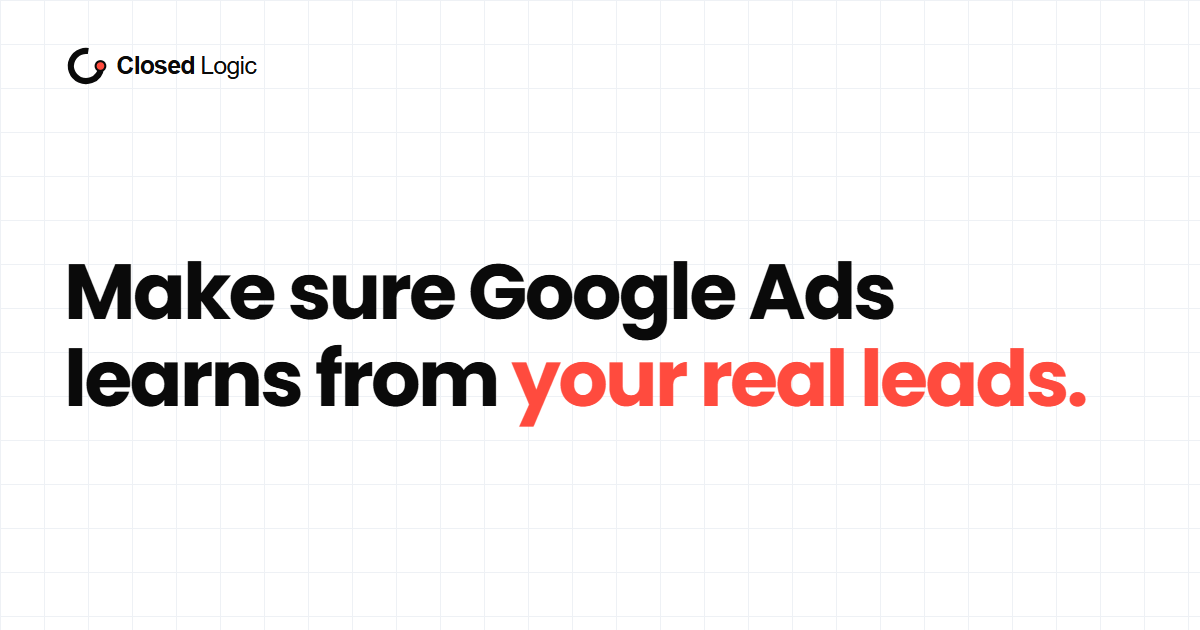
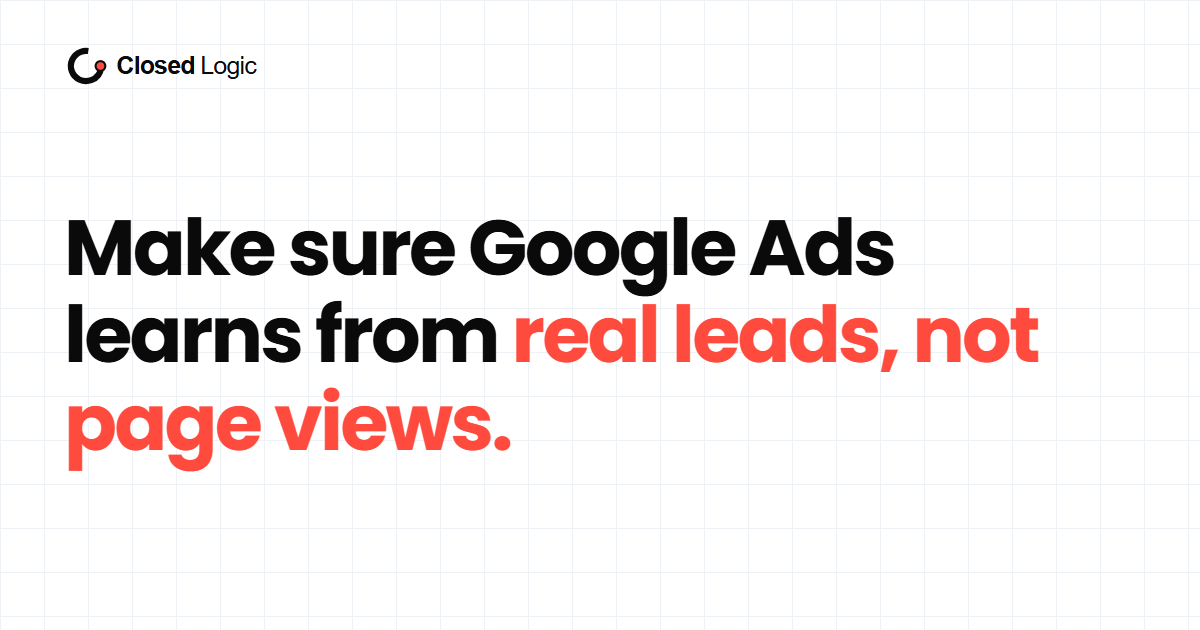
Guides box, new share images, cleanup of retired code
End-of-guide box links to /free-check and /signal-fix. New OG and X images (wordmark and "Make sure Google Ads learns from real leads, not page views."), alt text states exactly that. Removed the PE flag and gated code, the old contact form component, the Signal Watch and founding exports, and the PE booking route. US spelling fixes in the privacy policy, shorter terms and privacy meta descriptions, README and CHANGES updated.

Changed region(s): [[0.0308, 0.3317, 0.925, 0.754]]

diff --git a/app/offers.ts b/app/offers.ts
@@ -6,9 +6,7 @@ export const offers = {
   pilot: { name: "Ops Desk pilot", price: "$1,250" },
   ops: { name: "Ops Desk", price: "$2,500", per: "$2,500/month", hours: 10, noticeDays: 30 },
   audit: { name: "Pipeline Truth Audit", price: "$1,500", days: 10 },
-  fractional: { name: "Fractional Measurement Lead", price: "$5,000", per: "$5,000/month", hours: 25, foundingPer: "$4,000/month", foundingClients: 2 },
-  watch: { name: "Signal Watch", price: "$750", per: "$750/month", allowanceHours: 2 },
-  foundingFix: { clients: 5 },
+  fractional: { name: "Fractional Measurement Lead", price: "$5,000", per: "$5,000/month", hours: 25 },
 } as const;
 
 export const replyTime = "within 1 business day";
@@ -40,32 +38,3 @@ export const opsLine = `Up to ${offers.ops.hours} hours a month, one active requ
 export const auditGuarantee = "If the audit finds nothing that changes how Google Ads counts or bids, we refund the fee in full.";
 export const auditCredit = `If you continue to the ${offers.fractional.name} within 30 days of the audit report, the audit fee is credited against Fractional's first month. No credit applies to other offers.`;
 export const fractionalTerm = "Cancel in the first 30 days and pay only that month. Otherwise the 3-month term applies, then 30 days' notice.";
-
-// ---- Legacy exports: still used by pages not yet rewritten. Removed in the cleanup commit. ----
-export const legacy = {
-  watch: { name: "Signal Watch", price: "$750", per: "$750/month", allowanceHours: 2 },
-  fractionalFounding: { per: "$4,000/month", clients: 2 },
-  foundingFix: { clients: 5 },
-};
-export const fixScope = [
-  "Clean up which conversion actions are Primary",
-  "Fix the triggers",
-  "Set up form-submit and booking events",
-  "Capture click IDs and UTMs in HubSpot hidden fields",
-  "Choose the bidding stage the account's volume can support",
-  "Test and document",
-];
-export const fixDeliverables = "A before-and-after check you can rerun, and a change log with how to undo each change.";
-export const watchChecks = [
-  "Conversions arriving in Google Ads compared with HubSpot submissions",
-  "The share of paid contacts with a stored click ID",
-  "Changes to Primary conversion actions",
-  "Form embeds that stopped firing",
-];
-export const watchTerms = `Weekly checks, a short monthly note and ${legacy.watch.allowanceHours} hours a month of fixes. Unused hours don't roll over, and larger work is quoted. Month to month.`;
-export const foundingFixText = `The first ${legacy.foundingFix.clients} ${offers.fix.name} clients get their first month of ${legacy.watch.name} free, in exchange for a written case study.`;
-export const foundingFractionalText = `Founding rate: ${legacy.fractionalFounding.per} for the first ${legacy.fractionalFounding.clients} clients, for 3 months, with a case study required.`;
-export const foundingRule = `Founding offers don't combine with each other or with the audit credit. A client gets at most one free first month of ${legacy.watch.name}.`;
-const lowerFirst = (s: string) => s.charAt(0).toLowerCase() + s.slice(1);
-export const fixScopeLine = fixScope.map(lowerFirst).join("; ");
-export const watchLine = watchChecks.map(lowerFirst).join("; ");

diff --git a/app/components/guide-cta.tsx b/app/components/guide-cta.tsx
@@ -1,24 +1,16 @@
-import { AuditButton, BookButton, BookPeButton } from "./cta";
-import { SHOW_PE } from "../flags";
+import Link from "next/link";
 
-// cta: direct sends B2B SaaS readers to the audit and the fractional offer; cta: agency (the frontmatter value kept
-// from the old site) sends PE readers to the portfolio offer. Both book Cal.com directly, tagged with the guide slug.
-export default function GuideCta({ cta, campaign }: { cta: "direct" | "agency"; campaign: string }) {
-  // While SHOW_PE is false (app/flags.ts) every guide gets the B2B SaaS fit-call CTA (the 20min-fit event).
-  const pe = SHOW_PE && cta === "agency";
+// End-of-guide box: the free check first, then Signal Fix (the guide bodies are left as written).
+export default function GuideCta() {
   return (
     <aside aria-labelledby="guide-cta-title" className="bento mt-14">
-      <h2 id="guide-cta-title" className="text-title-m">
-        {pe ? "Want one measurement standard across your portfolio?" : "Want your setup checked?"}
-      </h2>
+      <h2 id="guide-cta-title" className="text-title-m">Want to know what your setup is sending?</h2>
       <p className="mt-3 max-w-[56ch] text-text-l text-body">
-        {pe
-          ? "We work alongside your CRM partner on measurement across every portfolio company, without migrating CRMs."
-          : "We find what your Google Ads and HubSpot setup is miscounting, fix it at a fixed price, and keep checking it. We sell no media and resell no software."}
+        We check what your site sends to Google Ads from outside, for free, with no logins. If we find something, Signal Fix is $750 for one defined fix.
       </p>
       <div className="mt-6 flex flex-col gap-3 sm:flex-row sm:flex-wrap">
-        {pe ? <BookPeButton campaign={campaign} className="w-full sm:w-auto" /> : <BookButton campaign={campaign} className="w-full sm:w-auto" />}
-        <AuditButton className="w-full sm:w-auto" />
+        <Link href="/free-check" className="btn w-full sm:w-auto">Get my free check</Link>
+        <Link href="/signal-fix" className="btn-outline w-full sm:w-auto">See Signal Fix</Link>
       </div>
     </aside>
   );

diff --git a/app/privacy/page.tsx b/app/privacy/page.tsx
@@ -8,7 +8,7 @@ import { pageMetadata } from "../seo";
 
 export const metadata = pageMetadata({
   title: "Privacy policy",
-  description: `What ${site.domain} collects, why, who sees it, how long we keep it, and how to use your rights. ${site.legalLine}.`,
+  description: `What ${site.domain} collects, why, who sees it, how long we keep it, and how to use your rights.`,
   path: "/privacy",
 });
 
@@ -54,7 +54,7 @@ export default function Privacy() {
           <strong>When you visit the site: session replays and heatmaps.</strong>{" "}
           Microsoft Clarity records how visitors use the site: clicks, scrolling and mouse movement, shown as session
           replays and heatmaps, with the page, referrer, device, browser and approximate location. It sets cookies to
-          recognise your browser across pages. What you type into form fields is always masked. On most pages it&apos;s loaded
+          recognize your browser across pages. What you type into form fields is always masked. On most pages it&apos;s loaded
           through Tag Manager and switched off until you press Accept. The exception is the personal video pages we send to
           individual prospects (addresses starting /v/), which aren&apos;t linked from the rest of the site. Clarity runs on
           those straight away, so we can see whether the video was watched. Clarity keeps recordings for up to 30 days.
@@ -206,7 +206,7 @@ export default function Privacy() {
           ask us to tell you what we hold about you and where we got it, or to delete it. If you ask us to delete it, we keep only the
           do-not-contact entry described above, so we don&apos;t contact you again.
         </p>
-        <p>We do not sell or share personal information for cross-context behavioural advertising as those terms are defined in California law.</p>
+        <p>We do not sell or share personal information for cross-context behavioral advertising as those terms are defined in California law.</p>
 
         <h2 className={h}>Security</h2>
         <p>

diff --git a/app/site.config.ts b/app/site.config.ts
@@ -1,7 +1,6 @@
 // Site facts and every open placeholder. scripts/check-placeholders.mjs fails the
 // production build while any double-brace token is left in app/.
 import booking from "./booking.json";
-import { SHOW_PE } from "./flags";
 
 export type CaseStudy = { title: string; body: string; attribution: string };
 
@@ -11,8 +10,6 @@ export const site = {
   // Nova's artwork (wordmark, icons, share images), whose text is outlined or baked in (see README, "Renaming").
   // Renamed from the old brand to Closed Logic (Matt, 9 Oct 2026). The old domain's 301 plan is in the dev report.
   brand: "Closed Logic",
-  // Single PE switch, set in app/flags.ts.
-  showPE: SHOW_PE,
   positioning: "Fix HubSpot and Google Ads Conversion Tracking",
   description:
     "We check what your site sends to Google Ads and HubSpot, fix what’s miscounted for $750, and run your HubSpot ops after. Free check, no access.",
@@ -32,13 +29,11 @@ export const site = {
   },
   linkedin: "https://www.linkedin.com/in/mattstrydom",
   // Booking links, all in app/booking.json (one place, also read by scripts/cf-postbuild.mjs). Site buttons link to
-  // Cal.com directly with UTM tags (app/booking.ts, Matt 2 Nov 2026); bookPath and bookPePath are the redirects
+  // Cal.com directly with UTM tags (app/booking.ts, Matt 2 Nov 2026); bookPath is the redirect
   // written to out/_redirects, kept for links shared outside the site. A booking.json entry with no event of its own
   // falls back to the direct link.
   bookPath: "/book",
-  bookPePath: "/book-pe",
   directBookingUrl: booking.direct,
-  peBookingUrl: booking.pe,
   // Only the production build is indexable: the Cloudflare Workers Builds build of main, or any build with
   // SITE_INDEXABLE=1. VERCEL_ENV keeps a Vercel production build working.
   indexable:

diff --git a/app/validate.ts b/app/validate.ts
@@ -1,20 +1,8 @@
-import { SHOW_PE } from "./flags";
-
-const ALL_SIZES = [
-  "Under $5M ARR",
-  "$5M to $10M ARR",
-  "$10M to $25M ARR",
-  "$25M to $50M ARR",
-  "$50M+ ARR",
-  "PE fund (5 to 20 portfolio companies)",
-  "Other",
-] as const;
-export const SIZES: readonly string[] = SHOW_PE ? ALL_SIZES : ALL_SIZES.filter((s) => !s.startsWith("PE fund"));
-export const SIZE_LABEL = SHOW_PE ? "ARR or portfolio size" : "ARR";
+export const SIZES: readonly string[] = ["Under $5M ARR", "$5M to $10M ARR", "$10M to $25M ARR", "$25M to $50M ARR", "$50M+ ARR", "Other"];
 
 // The partner white-label offer was removed on 27 Oct 2026: there is no partner request type any more.
-export type FormType = "b2b" | "pe";
-export const FORM_TYPES: readonly FormType[] = SHOW_PE ? ["b2b", "pe"] : ["b2b"];
+export type FormType = "b2b";
+export const FORM_TYPES: readonly FormType[] = ["b2b"];
 export type Fields = { name: string; email: string; company: string; role: string; size: string; stack: string; note: string };
 export type Errors = Partial<Record<keyof Fields, string>>;
 
@@ -42,7 +30,7 @@ export function validate(f: Fields): Errors {
     e.email = "Enter a work email like name@company.com.";
   if (!f.company.trim() || f.company.length > 200) e.company = "Enter your company.";
   if (f.role.length > 120) e.role = "Shorten your role to 120 characters or fewer.";
-  if (!SIZES.includes(f.size)) e.size = SHOW_PE ? "Choose your ARR or portfolio size." : "Choose your ARR.";
+  if (!SIZES.includes(f.size)) e.size = "Choose your ARR.";
   if (f.stack.length > 300) e.stack = "Shorten your stack to 300 characters or fewer.";
   if (f.note.length > 2000) e.note = "Shorten your note to 2,000 characters or fewer.";
   return e;

diff --git a/app/components/cta.tsx b/app/components/cta.tsx
@@ -4,19 +4,15 @@ import { bookHref } from "../booking";
 // Booking buttons go straight to Cal.com with UTM tags for the page they're on (app/booking.ts). They open in a
 // new tab, no embed; data-cta="book" lets public/cta.js record the click. Secondary buttons are internal links.
 type P = { className?: string; href?: string; children?: React.ReactNode };
-type B = { className?: string; campaign: string; pe?: boolean; children?: React.ReactNode };
+type B = { className?: string; campaign: string; children?: React.ReactNode };
 
-export function BookButton({ className = "", campaign, pe = false, children = "Book a 20-minute call" }: B) {
+export function BookButton({ className = "", campaign, children = "Book a 20-minute call" }: B) {
   return (
-    <a href={bookHref(campaign, pe ? "pe" : "direct")} data-cta="book" data-cta-page={campaign} target="_blank" rel="noopener noreferrer" className={`btn ${className}`}>
+    <a href={bookHref(campaign)} data-cta="book" data-cta-page={campaign} target="_blank" rel="noopener noreferrer" className={`btn ${className}`}>
       {children}
       <span className="sr-only"> (opens in a new tab)</span>
     </a>
   );
-}
-
-export function BookPeButton({ className = "", campaign, children = "Book a portfolio measurement call" }: Omit<B, "pe">) {
-  return <BookButton pe campaign={campaign} className={className}>{children}</BookButton>;
 }
 
 export function AuditButton({ className = "", href = "/method#checks", children = "See the 10 core checks" }: P) {

diff --git a/worker/index.ts b/worker/index.ts
@@ -1,4 +1,4 @@
-// The site's only server code: POST /api/request, the contact form (B2B SaaS requests, and PE requests when SHOW_PE is on),
+// The site's only server code: POST /api/request, the free check and contact forms (type "check"; the old b2b contact form is still accepted),
 // and byte ranges for the unlisted video files (/v/*.mp4, see serveVideo). Everything else is a static file served by Workers
 // static assets without running this Worker (wrangler.jsonc: run_worker_first ["/api/*", "/v/*.mp4"]).
 // Free plan budget: 10 ms CPU per request and 100,000 Worker requests a day; this handler does a JSON parse, the
@@ -95,7 +95,7 @@ async function handleRequest(req: Request, env: Env): Promise<Response> {
   // The free outside-in check form (email and website only) has its own type and tag.
   if (body.type === "check") return handleCheck(body, env);
 
-  // Pages post b2b (or pe when SHOW_PE is on). Anything else (a cached page from the old site posting check, teardown or
+  // Pages post check. The old contact form posted b2b, and a cached copy may still. Anything else (a cached page from the old site posting check, teardown or
   // partner) is a B2B request.
   const type: FormType = FORM_TYPES.includes(body.type as FormType) ? (body.type as FormType) : "b2b";
   // Where the visitor came from (?src= on the page): letters, numbers, dot, dash and underscore only.

diff --git a/scripts/v-template-check.html b/scripts/v-template-check.html
@@ -93,8 +93,8 @@ footer{border-top:1px solid #e5e5e5;margin-top:48px;padding-top:16px;font-size:.
 
 <section class="cta" aria-labelledby="cta-h">
 <h2 id="cta-h">Want us to fix it?</h2>
-<p>Signal Fix is $750, fixed scope. <a data-cta="fixoffer" href="https://www.closedlogic.com/signal-fix?utm_source=video-page&amp;utm_campaign={{SLUG}}&amp;utm_content=fix-offer">See what it covers</a>.</p>
-<p><a class="btn" data-cta="reply" data-v-slug="{{SLUG}}" href="mailto:hello@closedlogic.com?subject=fix%3A%20{{COMPANY}}">Reply &#8220;fix&#8221;</a></p>
+<p>Signal Fix is $750 for one defined fix. <a data-cta="fixoffer" href="https://www.closedlogic.com/signal-fix?utm_source=video-page&amp;utm_campaign={{SLUG}}&amp;utm_content=fix-offer">See what it covers</a>.</p>
+<p><a class="btn" data-cta="reply" data-v-slug="{{SLUG}}" href="mailto:matt@closedlogic.co?subject=fix%3A%20{{COMPANY}}">Reply &#8220;fix&#8221;</a></p>
 <p>Or <a data-cta="book" data-v-slug="{{SLUG}}" href="https://cal.com/closedlogic/20min-fit?utm_source=video-page&amp;utm_campaign={{SLUG}}&amp;utm_content=book-cta" target="_blank" rel="noopener">book a 20-minute fit call</a>.</p>
 </section>
 </main>

diff --git a/app/guides/[slug]/page.tsx b/app/guides/[slug]/page.tsx
@@ -76,7 +76,7 @@ export default async function GuidePage({ params }: PageProps<"/guides/[slug]">)
     <>
       <script type="application/ld+json" dangerouslySetInnerHTML={{ __html: jsonLdScript(graph) }} />
       {g.isDraft && showDrafts && <div className="guide-draft-banner" role="status">DRAFT ({g.status}): not published, hidden from the live site, noindex</div>}
-      <Header campaign={g.slug} />
+      <Header path={`/guides/${g.slug}`} />
       <main id="main" tabIndex={-1}>
         <article className="container-site pb-16 pt-10 sm:pb-24 sm:pt-14">
           <Breadcrumbs items={crumbs} />
@@ -101,7 +101,7 @@ export default async function GuidePage({ params }: PageProps<"/guides/[slug]">)
           </p>
           <div className="guide-prose mt-10" dangerouslySetInnerHTML={{ __html: g.html }} />
           <div className="max-w-[68ch]">
-            <GuideCta cta={g.cta} campaign={g.slug} />
+            <GuideCta />
             {(related.length > 0 || pillarPage) && (
               <nav aria-label="Keep reading" className="mt-10">
                 <h2 className="text-title-s">Keep reading</h2>

diff --git a/app/seo.ts b/app/seo.ts
@@ -9,7 +9,7 @@ export const sharedOpenGraph = { siteName: site.brand, locale: "en_US", type: "w
 // 1200x630 for Open Graph, 1200x600 for X/Twitter. Rendered from scripts/og-v3.html with scripts/make-og.mjs; the
 // text is baked into the PNGs, so re-render them (and update ogAlt) when the headline changes.
 // Alt text states exactly what is on the share images: the wordmark and the headline (scripts/og-v3.html).
-const ogAlt = "Closed Logic wordmark. Make sure Google Ads learns from your real leads.";
+const ogAlt = "Closed Logic wordmark. Make sure Google Ads learns from real leads, not page views.";
 export const ogImage = { url: "/closedlogic-og-v3-1200x630.png", width: 1200, height: 630, alt: ogAlt, type: "image/png" };
 export const twitterImage = { url: "/closedlogic-og-v3-x-1200x600.png", width: 1200, height: 600, alt: ogAlt, type: "image/png" };
 

diff --git a/app/components/header.tsx b/app/components/header.tsx
@@ -11,7 +11,7 @@ const baseLinks: [string, string][] = [
 ];
 
 // campaign: the booking UTM slug, when the page path used for the nav highlight isn't the page (guides).
-export default function Header({ path = "/" }: { path?: string; campaign?: string }) {
+export default function Header({ path = "/" }: { path?: string }) {
   // Guides appears only once a guide is published (automatic, see app/guides/content.ts).
   const links: [string, string][] = [...baseLinks, ...(hasGuides() ? ([["/guides", "Guides"]] as [string, string][]) : []), ["/about", "About"]];
   const current = (href: string) => (path === href || path.startsWith(`${href}/`) ? "page" : undefined);

diff --git a/app/guides/page.tsx b/app/guides/page.tsx
@@ -37,7 +37,7 @@ export default function GuidesIndex() {
     <>
       <script type="application/ld+json" dangerouslySetInnerHTML={{ __html: jsonLdScript(graph) }} />
       {showDrafts && guides.some((g) => g.isDraft) && <div className="guide-draft-banner" role="status">DRAFT PREVIEW: unpublished guides are listed below and are hidden from the live site</div>}
-      <Header campaign="guides" />
+      <Header path="/guides" />
       <main id="main" tabIndex={-1}>
         <section aria-labelledby="guides-title" className="container-site pb-16 pt-10 sm:pb-24 sm:pt-14">
           <Breadcrumbs items={[{ name: "Home", href: "/" }, { name: "Guides" }]} />
